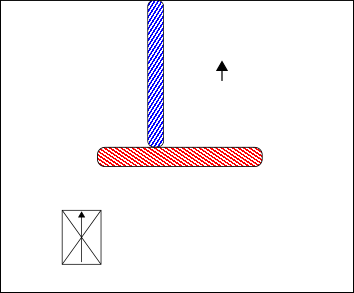
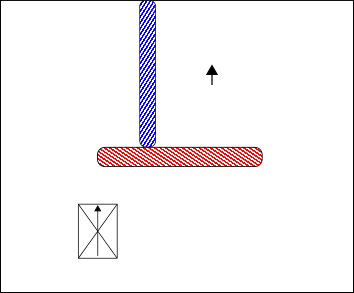
Better specifying start and goal poses.

Changed region(s): [[0.3729, 0.0, 0.4661, 0.5222], [0.1554, 0.6758, 0.3418, 0.9215], [0.5904, 0.215, 0.6525, 0.2765]]

diff --git a/doc/automatic_navigation_benchmark.md b/doc/automatic_navigation_benchmark.md
@@ -49,7 +49,7 @@ Move to the goal in a test area without any obstacles.
 
 Situation with both the robot and the goal at orientation zero degrees.
 
-The goal is given 4 meters away from the robot. The test is repeated with varying orientations of the robot start pose and the goal pose.
+The goal is given 4 CR forward from the start pose. The test is repeated with varying orientations of the robot start pose and the goal pose.
 
 | Orientation Robot | Orientation Goal | Reached | # collisions | Time | Smoothness |
 | ----------------- | ---------------- | ------- | ------------ | ---- | ---------- |
@@ -86,10 +86,12 @@ The goal is given 4 meters away from the robot. The test is repeated with varyin
 
 ### Replanning
 These benchmarks will test the replanning behavior.
+
 #### Replanning 1
 
 ![Alt text](images/replanning-1.png "Replanning 1")
 
+The start pose is aligned with the left side of the red obstacle. The goal pose is placed 3 CR to the right and forward of the start pose.
 The blue obstacle is hidden from sight by the red obstacle, and thus unknown to the robot at the beginning of the test.
 The gaps on the right and left side of the red obstacle are at least twice the CR.
 The path left from the robot will be the preferred initial path of the robot due to the lower distance. When the obstacle around the corner is detected however the robot should re-plan and take the path to the right of the red obstacle.
@@ -121,6 +123,8 @@ The measured time is the time it takes for the robot to abort the navigation att
 
 ![Alt text](images/unreachable-2.png "Unreachable 2")
 
+The distance between the start pose and the goal pose must be 5 CR.
+The red obstacle is extends 2 CR to the right of the start pose.
 The blue obstacle is hidden from sight by the red obstacle, and thus unknown to the robot at the beginning of the test.
 The gap on the right side of the red obstacle is at least twice the CR.
 The robot will have to plan a path around the red obstacle, as soon as it detects the blue obstacle it must recognize that the goal is in fact unreachable and correctly abort its navigation attempt.
@@ -132,10 +136,13 @@ The measured time is the time it takes for the robot to abort the navigation att
 
 ### Narrow passages
 These benchmarks will test whether the robot can pass through a narrow passage like an opened door.
+
 #### Narrow passage 1
 
 ![Alt text](images/narrow-passage-1.png "Narrow passage 1")
 
+The distance between the start pose and the opening must be 4 CR.
+The distance between the opening and the goal pose must be 4 CR.
 The spacing between the red obstacles, the passage width, must be varied by a factor of the minimal width. The minimal width is at least the IR, or the minimal width when the robot is moving 'forward'.
 
 | Passage width       | Reached | # collisions | Time | Smoothness |
@@ -152,6 +159,8 @@ This will test the scenario when there is a door standing open to the side of a 
 
 ![Alt text](images/L-passage-1.png "L passage 1")
 
+The distance between the start pose and the opening must be 4 CR.
+The distance between the opening and the goal pose must be 2 CR.
 The obstacle protruding out from the side of the passage must be at least twice the CR.
 The spacing between the red obstacles, the passage width, must be varied by a factor of the minimal width. The minimal width is at least the IR, or the minimal width when the robot is moving 'forward'.
 
@@ -166,7 +175,7 @@ The spacing between the red obstacles, the passage width, must be varied by a fa
 
 ![Alt text](images/narrow-corridor-1.png "Narrow corridor 1")
 
-The length of the passage, the blue obstacles, must be twice the CR.
+The length of the short edges of the corner, the blue obstacles, must be twice the CR.
 The spacing between the blue obstacles, the passage width, must be varied by a factor of the MW.
 
 | Passage width       | Reached | # collisions | Time | Smoothness |
@@ -210,8 +219,9 @@ This can be done artificially by limiting the range of the sensors.
 
 ![Alt text](images/single-obstacle-1.png "Single obstacle 1")
 
+The start pose must be 5 CR from the obstacle.
+The goal pose must be 5 CR on the opposite side of the obstacle.
 The obstacle in the center of the testing area must have a clearance of 4 times the CR.
-The robot starting position must be 5 times the CR away from the obstacle, and the goal pose must also be 5 times CR on the opposite side.
 
 | Reached | # collisions | Time | Smoothness |
 | ------- | ------------ | ---- | ---------- |
@@ -251,13 +261,13 @@ The width of the obstacle must be 0.25*IR.
 
 ### Dynamic environments
 
-
 #### Dynamic 1
 
 ![Alt text](images/dynamic-1.png "Dynamic 1")
 
 The width of the testing area is 3 times the CR, the length is 10 times the CR.
 The red dynamic obstacle must be added testing area, at the halfway point. The obstacle must be added as soon as the robot is at a distance 'C' from the halfway point.
+The start and end pose are positioned 1 CR from the lower and upper edge of the test area.
 
 | C         | Reached | # collisions | Time | Smoothness |
 | --------- | ------- | ------------ | ---- | ---------- |
